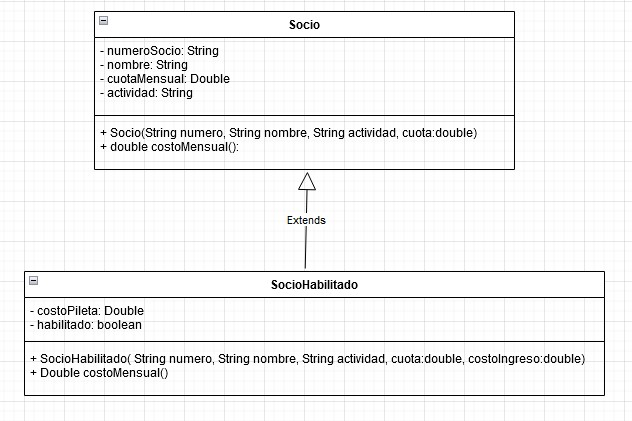
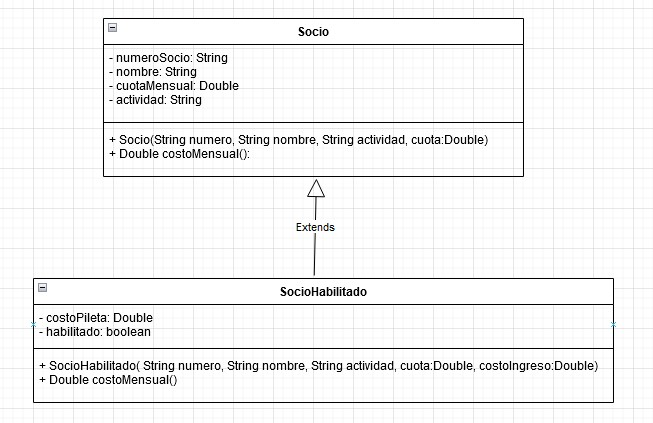
trabajo 18 terminado

Changed region(s): [[0.0301, 0.0, 0.962, 0.9572]]

diff --git a/Ejercicio-18/src/Pileta/Socio.java b/Ejercicio-18/src/Pileta/Socio.java
@@ -6,10 +6,46 @@ public class Socio {
     private Double cuotaMensual;
     private String actividad;
 
-    public Socio(String numeroSocio, String nombre, String actividad, Double cuota) {
-        this.numeroSocio = numeroSocio;
+    public Socio(String numero, String nombre, String actividad, Double cuota) {
+        numeroSocio = numero;
         this.nombre = nombre;
+        this.actividad = actividad;
         cuotaMensual = cuota;
+    }
+
+    public Double costoMensual(){
+        return cuotaMensual;
+    }
+
+    public String getNumeroSocio() {
+        return numeroSocio;
+    }
+
+    public void setNumeroSocio(String numeroSocio) {
+        this.numeroSocio = numeroSocio;
+    }
+
+    public String getNombre() {
+        return nombre;
+    }
+
+    public void setNombre(String nombre) {
+        this.nombre = nombre;
+    }
+
+    public Double getCuotaMensual() {
+        return cuotaMensual;
+    }
+
+    public void setCuotaMensual(Double cuotaMensual) {
+        this.cuotaMensual = cuotaMensual;
+    }
+
+    public String getActividad() {
+        return actividad;
+    }
+
+    public void setActividad(String actividad) {
         this.actividad = actividad;
     }
 }

diff --git a/Ejercicio-18/src/Pileta/SocioHabilitado.java b/Ejercicio-18/src/Pileta/SocioHabilitado.java
@@ -1,4 +1,33 @@
 package Pileta;
 
-public class SocioHabilitado {
+public class SocioHabilitado extends Socio{
+
+    private Double costoPileta;
+    private boolean habilitado;
+
+    public SocioHabilitado(String numero, String nombre, String actividad, Double cuota, Double costoIngreso) {
+        super(numero, nombre, actividad, cuota);
+        costoPileta = costoIngreso;
+        this.habilitado = true;
+    }
+
+    @Override public Double costoMensual(){
+        return costoPileta+getCuotaMensual();
+    }
+
+    public Double getCostoPileta() {
+        return costoPileta;
+    }
+
+    public void setCostoPileta(Double costoPileta) {
+        this.costoPileta = costoPileta;
+    }
+
+    public boolean isHabilitado() {
+        return habilitado;
+    }
+
+    public void setHabilitado(boolean habilitado) {
+        this.habilitado = habilitado;
+    }
 }

diff --git a/Ejercicio-18/src/Pileta/Programa.java b/Ejercicio-18/src/Pileta/Programa.java
@@ -2,6 +2,11 @@ package Pileta;
 
 public class Programa {
     public static void main(String[] args) {
+        Socio socio1 = new Socio("1", "Pablo", "Basquet", 100d);
+        SocioHabilitado socio2 = new SocioHabilitado("2", "Leonel", "Natacion", 100d, 50d);
+
+        System.out.println("El socio sin estar hablitado paga " + socio1.costoMensual());
+        System.out.println("El socio habilitado paga " + socio2.costoMensual());
 
     }
 }
